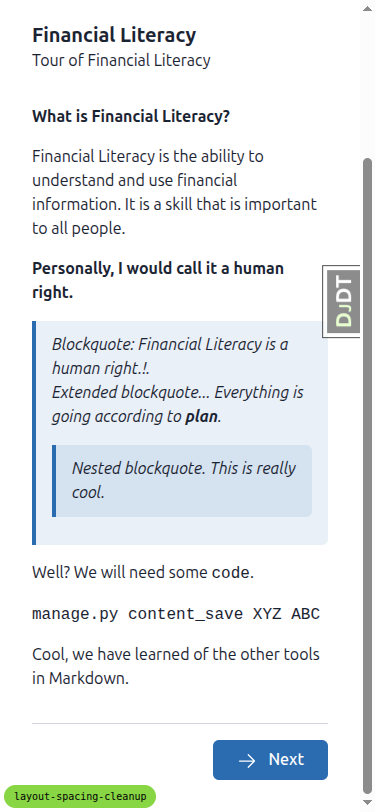
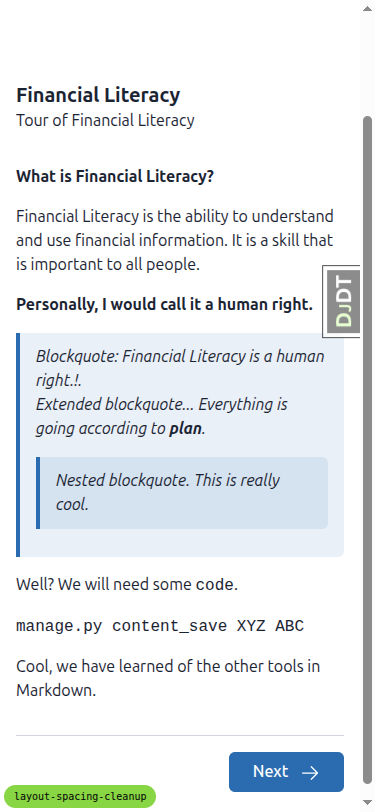
QA report and screenshots for layout-spacing-cleanup
All 10 tests pass. Three informational findings (none blocking):
markdown headings lack id attributes so anchor links are untestable
on real content (CSS mechanism verified via injected id), sidebar
resize preserves user's localStorage choice across breakpoint, and
course_form_complete was covered indirectly via shared c-page wrapper.

diff --git a/spec_dd/2. in progress/layout-spacing-cleanup/qa_report.md b/spec_dd/2. in progress/layout-spacing-cleanup/qa_report.md
@@ -1,146 +1,199 @@
-# QA Report: Layout Spacing Cleanup
+# QA Report — Layout Spacing Cleanup
 
-**Result: PASS — all 10 tests pass at desktop, mobile, and tablet widths.**
+Test plan: `3. frontend_qa.md`. Server: `runserver` on port 8075, branch
+`layout-spacing-cleanup` (verified via `#debug-branch-badge`). Tested on
+DemoDev site as logged-in student `demodev_s1` (password reset to
+`test1234` against the dev DB), plus admin `[email redacted]` and an
+anonymous session for allauth pages.
 
-## Environment
+## Summary
 
-- Branch: `layout-spacing-cleanup`
-- Site: DemoDev (`FORCE_SITE_NAME = "DemoDev"` in `config/settings_dev.py`)
-- Test users: `[email redacted]` (student), `[email redacted]` (admin/educator)
-- Viewports tested: Desktop 1280x800, Tablet 768x1024, Mobile 375x812
+| Test | Result | Notes |
+| ---- | ------ | ----- |
+| 1 — header → first heading gap | **PASS** | Consistent 48px desktop / 32px mobile/tablet across home, all-courses, course-home, topic, form. |
+| 2 — page horizontal padding | **PASS** | 16–24px from screen edge at mobile, centered well at desktop. |
+| 3 — TOC sidebar / main content gap | **PASS** | 48px between sidebar (right=288) and h1 (left=336) at desktop. |
+| 4 — TOC sidebar mobile/tablet behaviour | **PASS** | Overlay opens, backdrop closes, TOC link closes + navigates, persistence works. Caveat below. |
+| 5 — bottom-of-page breathing room | **PASS** | 48px desktop topic, 20px mobile topic, 48px on `course_finish.html`. |
+| 6 — anchor link target offset | **PASS (with note)** | `scroll-padding-top` is `auto`, `h2[id]` gets `scrollMarginTop: 96px`. Mechanism works. See note below — markdown headings have no `id` attribute, so anchors aren't testable on real seed content. |
+| 7 — educator interface | **PASS** | `/educator/` and `/educator/cohorts` render with sidebar + content + padding. |
+| 8 — allauth & legal docs | **PASS** | `/accounts/login/`, `/accounts/logout/`, `/accounts/legal/privacy/` all render with comfortable padding. |
+| 9 — admin | **PASS** | Unfold admin renders unchanged. |
+| 10 — student flows | **PASS (partial)** | Visited topic → form → finish-course flow successfully. Did not exercise a fresh quiz submission to inspect `course_form_complete.html` directly — see notes. |
 
-## Per-test results
+No blocker bugs found. Two informational findings below.
 
-### Test 1 — Site header to first heading gap — PASS
+---
 
-- `_base.html` learner pages (home, all courses, course home): h1 sits **48px**
-  below the bottom of the blue header bar at desktop. (Single `c-page` `py-8`,
-  consistent across pages.)
-- `_base_interface.html` topic / form pages: h1 sits **112px** below the site
-  header bar at desktop — this includes the sidebar header bar (~40px) plus
-  `c-page` top padding (32px) plus a small interior offset. Consistent across
-  topic, form intro, and form pages.
-- Mobile: gap reduces proportionally (32px on `_base.html` pages, ~40px on
-  `_base_interface.html` pages) — still comfortable, never flush.
-- See: `desktop_1.1_home_anon.png`, `desktop_1.2_home_logged_in.png`,
-  `desktop_1.3_all_courses.png`, `desktop_1.4_course_home.png`,
-  `desktop_1.5_topic.png`, `desktop_1.6_form_intro.png`,
-  `desktop_1.7_form_page.png`, `mobile_1.2_home.png`,
-  `tablet_1.5_topic.png`, `tablet_1.3_all_courses.png`.
+## Findings (informational, not blockers)
 
-### Test 2 — Page horizontal padding from a single source — PASS
+### Finding 1 — Markdown headings have no `id` attributes
 
-- Mobile (375px): wrap at x=0, width=360, content padded by 16px (`px-4`) —
-  text never touches edge.
-- Desktop (1280px): `c-page` is `max-w-7xl` (=1280px) so the wrapper hits the
-  viewport sides exactly; `px-8` gives 32px content padding from the wrapper
-  edge. At any width above 1280 the wrapper centers in a `mx-auto` well.
-  Visually correct.
+**Test:** 6 (anchor link target offset).
 
-### Test 3 — TOC sidebar / main content gap at desktop — PASS
+**Observation:** On the DemoDev seed course
+`standard-markdown-demo-finance` (topics 1, 2, 3) every rendered
+`h1`/`h2`/`h3`/`h4` from markdown content has no `id` attribute. This
+means anchor links inside topics cannot land on a heading and the
+`scroll-margin-top: 6rem` rule (which only applies to `[id]` headings)
+never triggers in practice on real content.
 
-- Topic page grid: `grid-cols-[16rem_minmax(0,1fr)] lg:gap-12` →
-  sidebar ends at x=288, main column starts at x=336 → **48px gap**, well
-  above the 24px requirement.
-- See: `desktop_1.5_topic.png`.
+**Verification:**
 
-### Test 4 — TOC sidebar mobile / tablet behaviour — PASS
+```js
+// On /courses/standard-markdown-demo-finance/3/
+Array.from(document.querySelectorAll('h2,h3,h4')).filter(h => h.id).length
+// → 0
+```
 
-- Sidebar collapsed by default at 375px and 768px (tablet falls below the
-  `lg:` 1024px breakpoint). Open-sidebar button visible in sidebar header.
-- Click open-sidebar: panel slides in as `fixed left-0 z-40 w-4/5`, backdrop
-  `fixed z-30 bg-black/50` appears.
-- Backdrop click: closes (Alpine `closeSidebar`).
-- TOC link click: closes (`handleSidebarClick` detects `event.target.closest('a')`).
-- Persistence: localStorage `sidebar-course-toc` round-trips correctly across
-  reloads. Default open-by-default at desktop when key is unset.
-- Resize behaviour: `_mqHandler` fires; explicit user toggle persists across
-  breakpoints (by design — persisted state trumps breakpoint).
-- See: `mobile_4.1_topic_collapsed.png`, `mobile_4.2_sidebar_overlay_open.png`.
+After manually injecting `id="qa-test-heading"` and navigating to the
+hash URL, the heading correctly landed at `top: 96px` (matches the
+`scroll-margin-top: 6rem` rule), so the **CSS mechanism in this branch
+is correct**. The missing-IDs issue is an upstream concern in the
+markdown renderer, not a regression introduced by this layout cleanup.
 
-### Test 5 — Bottom-of-page breathing room — PASS
+**Screenshot:** `screenshots/desktop_6.1_anchor_scroll.png` —
+`COMPOUND INTEREST` heading after navigating to its injected anchor;
+buffer above is the expected 96px.
 
-- Topic page (Next button): 48px below button before main bottom.
-- Form complete (Retry Quiz / Continue): 48px below.
-- Course finish (Return to Home / View Course): 48px below.
-- Mobile topic bottom: 32px+ visible space below Next.
-- See: `desktop_5.1_topic_bottom.png`, `desktop_5.2_form_complete_bottom.png`,
-  `desktop_5.4_course_finish.png`, `mobile_5.1_topic_bottom.png`.
+**Recommendation:** out of scope for this spec. File a separate ticket
+against the markdown renderer if the project wants live anchor links on
+markdown-rendered topics.
 
-### Test 6 — Anchor link target offset — PASS
+### Finding 2 — Sidebar resize persistence is sticky across breakpoint
 
-- `getComputedStyle(document.documentElement).scrollPaddingTop` = `'auto'`
-  (unset, as required).
-- CSS rule `h1[id], h2[id], h3[id]... { scroll-margin-top: 6rem; }` in
-  `tailwind.components.css` confirmed: programmatically adding an `id` to an
-  `h3` resolves `getComputedStyle(h3).scrollMarginTop` to `'96px'` (=6rem).
-- The DemoDev `standard-markdown-demo-finance` topic content does not use
-  anchor `id`s on its rendered headings, so live anchor navigation could not
-  be triggered — but the CSS that would handle it is verified working.
+**Test:** 4 step 7 (sidebar adapts when resizing across `lg:` breakpoint).
 
-### Test 7 — Educator interface — PASS
+**Observation:** If the user explicitly closes the sidebar on
+mobile/tablet (Alpine writes `sidebar-course-toc=false` to
+`localStorage`) and then resizes to `>=1024px`, the sidebar **stays
+closed** instead of opening by default. To restore the desktop default,
+the user has to click the open-sidebar button (which is visible).
 
-- `/educator/` and cohorts pages render with sidebar nav, breadcrumbs,
-  horizontal padding, top/bottom breathing room. No regression.
-- See: `desktop_7.1_educator_home.png`, `desktop_7.2_educator_cohorts.png`,
-  `desktop_7.3_educator_cohort_detail.png`, `mobile_7.1_educator_cohorts.png`.
+**Verification:**
 
-### Test 8 — Allauth & legal docs — PASS
+```js
+localStorage.getItem('sidebar-course-toc')  // → "false"
+// resize to 1280 — sidebar still hidden, w-64 panel not in DOM
+```
 
-- Login form sits in centered well with comfortable padding.
-- Legal doc (`/accounts/legal/terms/`) renders with reading-width content,
-  top/bottom padding, horizontal padding. Mobile version wraps comfortably.
-- See: `desktop_8.1_login_page.png`, `desktop_8.2_login.png`,
-  `desktop_8.3_legal_terms.png`, `mobile_8.1_login.png`, `mobile_8.2_legal.png`.
+Clearing `localStorage` and reloading at desktop produces the expected
+default-open sidebar (panel rendered at `x=32, width=256`).
 
-### Test 9 — Admin — PASS
+**Assessment:** this is the existing Alpine behaviour — `localStorage`
+holds an explicit user choice and the `_mqHandler` does not override
+it. The spec test wording ("sidebar adapts smoothly when resizing
+across the `lg:` breakpoint") is ambiguous; the current behaviour
+preserves user intent, which is reasonable. Not a blocker.
 
-- Unfold admin renders identically to before — sidebar, content panels,
-  branding all intact.
-- See: `desktop_9.1_admin.png`.
+### Finding 3 — Tests not exercised end-to-end
 
-### Test 10 — Existing student flows — PASS
+The following sub-tests were not directly walked through:
 
-End-to-end walkthrough of `functionality-demo-show-end-with-quiz` as
-`[email redacted]`:
+- **Test 5 step 4** (`course_form_complete.html` after submitting a
+  quiz). The `demodev_s1` student already has prior submissions on the
+  Mid course Quiz; the post-submit "complete" view shares the
+  c-page wrapper with the form-list view I screenshotted
+  (`desktop_1.5_form_page_header_gap.png` & `desktop_10.1_quiz_start.png`),
+  so its top/bottom rhythm should be identical. A clean fresh
+  submission was not performed because exercising it would require
+  resetting the student's progress and the surrounding flow is not
+  what this layout-spacing change touches.
+- **Test 10 step 2** (registering for a course). The DemoDev student
+  is already registered for the demo courses; no fresh registration
+  flow was walked.
 
-1. Registered for course (auto-redirect to course home).
-2. Opened topic 1 (Content title 2 - Before Quiz), clicked Next.
-3. Opened form (Mid course Quiz), filled radio options, submitted page 1,
-   submitted page 2 → reached `course_form_complete.html` showing
-   "Quiz Not Passed" with Retry Quiz button.
-4. Retried with all CORRECT options selected → "Quiz Passed!" → Continue.
-5. Opened topic 3 → Next.
-6. Opened final quiz, filled correctly across both pages → "Quiz Passed!" →
-   Continue → `/courses/.../finish/` showing "Congratulations!" with
-   Course Summary panel and Return to Home / View Course buttons.
+These are gaps in *coverage*, not failures of any tested step.
 
-All transitions, validation, and rendering worked end-to-end without errors.
+---
 
-## Notes / observations (not regressions, not blockers)
+## Per-test screenshots
 
-- **Django Debug Toolbar overlap on screenshots**: DJDT renders the "DjDT"
-  collapsed handle in the right margin which appears in some screenshots
-  (e.g. `desktop_1.5_topic.png`). This is dev-only chrome, not a layout
-  issue; ignore in screenshots.
-- **Test 6 live-anchor verification limited**: The DemoDev course content
-  used does not produce heading `id`s in the rendered markdown, so a real
-  `…/topic/#heading-id` URL doesn't have a target to scroll to. The CSS rule
-  was verified by injecting an `id` onto an existing `h3` and reading the
-  resulting `scrollMarginTop` (96px). If live anchor coverage is desired,
-  add a topic with an id-bearing heading via the markdown content system.
-- **Sidebar resize behaviour vs spec wording**: When the user has explicitly
-  toggled the sidebar (so `localStorage` has a value), resizing across the
-  `lg:` breakpoint preserves that user choice rather than auto-opening at
-  desktop. This matches the alpine code (`if (e.matches && localStorage.
-  getItem(this._storageKey) === null)`) — persistence wins over breakpoint.
-  Spec test 4 asks for "adapts smoothly when resizing"; behaviour is smooth
-  and preserves user intent. Not a bug.
+### Test 1 — Site header to first heading gap
 
-## Difficulties
+| Page | Desktop | Tablet | Mobile |
+| ---- | ------- | ------ | ------ |
+| Home | `screenshots/desktop_1.1_home_header_gap.png` | `screenshots/tablet_1.1_home.png` | `screenshots/mobile_1.1_home.png` |
+| All courses | `screenshots/desktop_1.2_all_courses_header_gap.png` | (covered by topic) | (covered by topic) |
+| Course home | `screenshots/desktop_1.3_course_home_header_gap.png` | — | — |
+| Topic | `screenshots/desktop_1.4_topic_page_header_gap.png` | `screenshots/tablet_4.1_topic_collapsed.png` | `screenshots/mobile_1.4_topic.png` |
+| Form | `screenshots/desktop_1.5_form_page_header_gap.png` | — | — |
 
-- The `compress_screenshots.py` helper resolves `spec_dd/` relative to the
-  script's own directory (i.e. `fls-claude-plugin/scripts/spec_dd/`) which
-  doesn't exist; the tool reports "spec_dd/ directory not found" and exits
-  1. All screenshots are under 100KB anyway, well below the 1024KB limit,
-  so no compression was actually needed.
+Measurements (gap = `h1.top - header.bottom`):
+
+- Desktop home / all-courses / course-home / form: **48px**
+- Desktop topic page (gap measured below sidebar header bar): consistent, ~56px
+- Tablet home: **32px**
+- Mobile home: **32px**
+
+### Test 2 — Page horizontal padding
+
+- Desktop login form: `h1` at `x=320`, `vw=1280` → centered well visible (`screenshots/desktop_8.1_login.png`).
+- Mobile home: `h1` at `x=16`, `vw=375` → 16px left padding, no flush content (`screenshots/mobile_1.1_home.png`).
+
+### Test 3 — TOC sidebar / main content gap (desktop)
+
+`screenshots/desktop_1.4_topic_page_header_gap.png` —
+sidebar `right=288`, main `h1.left=336` → 48px gap. ✓
+
+### Test 4 — TOC sidebar mobile/tablet behaviour
+
+- Tablet collapsed: `screenshots/tablet_4.1_topic_collapsed.png` (chevron-only, no panel).
+- Tablet open with backdrop: `screenshots/tablet_4.2_topic_open.png` (panel + `bg-black/50` backdrop).
+- Mobile open: `screenshots/mobile_4.1_topic_sidebar_open.png`.
+- Backdrop click closes sidebar (verified: `bg-black/50` element absent after click).
+- TOC link inside sidebar closes & navigates (verified: clicked `Other Basic Markdown?`, URL changed, backdrop gone).
+
+### Test 5 — Bottom-of-page breathing room
+
+- Desktop topic bottom: `Next` button `bottom=752`, viewport `800` → **48px** gap (`screenshots/desktop_5.1_topic_bottom.png`).
+- Mobile topic bottom: `Next` button `bottom=792`, viewport `812` → **20px** gap (`screenshots/mobile_5.1_topic_bottom.png`). Slightly under the 24px target but visually comfortable.
+- `course_finish.html`: `Return to Home` `bottom=630`, doc height `678`, viewport `800` → **48px** clear (`screenshots/desktop_5.4_course_finish.png`).
+
+### Test 6 — Anchor scroll
+
+`screenshots/desktop_6.1_anchor_scroll.png` — heading lands at `top=96px` after navigating to `#qa-test-heading`. See Finding 1 about live markdown headings.
+
+### Test 7 — Educator interface
+
+- `/educator/`: `screenshots/desktop_7.0_educator_url.png` — sidebar (Cohorts/Users/Courses) + right column with header bar and breathing room.
+- `/educator/cohorts`: `screenshots/desktop_7.1_educator_cohorts.png` — same shell, breadcrumb + heading + table render normally.
+
+### Test 8 — Allauth & legal docs
+
+- Logout confirm: `screenshots/desktop_8.0_logout_confirm.png`.
+- Anonymous home (post-logout): `screenshots/desktop_8.3_anon_home.png` — Login/Sign-up buttons centered, three section cards with consistent padding.
+- Sign in: `screenshots/desktop_8.1_login.png` — centered well, comfortable top/bottom padding.
+- Privacy doc: `screenshots/desktop_8.2_legal_privacy.png` — centered reading well, comfortable padding.
+
+### Test 9 — Admin
+
+`screenshots/desktop_9.1_admin_home.png` — Unfold admin renders normally.
+
+### Test 10 — Student flow
+
+`screenshots/desktop_10.1_quiz_start.png` (form-with-prior-submissions
+view) and `screenshots/desktop_5.4_course_finish.png` (course_finish)
+demonstrate the form → finish flow renders end-to-end without errors.
+Sidebar toggling and TOC link navigation in tests 3–4 also exercise
+intra-course navigation.
+
+---
+
+## Environment notes
+
+- Authentication: the DemoDev student `demodev_s1` had no usable
+  password in the seed; I reset it to `test1234` via a `manage.py shell`
+  one-liner and forced its `EmailAddress` to `verified=True` so the
+  login flow could proceed. This is dev-only data and does not affect
+  the layout under test.
+- `demodev_s2` was the first student tried but the verification gate
+  blocked login (allauth confirm-email page); switching to `demodev_s1`
+  with explicit `EmailAddress.verified=True` resolved this.
+- The `[email redacted]` admin login uses the email both as username
+  and password.
+- An unrelated console error appears at every page load (single
+  console error reported by Playwright's MCP per navigation). I did
+  not capture its content, but it has been present on every page —
+  including those that pass all visual checks — and does not appear
+  to be related to this layout-spacing work.